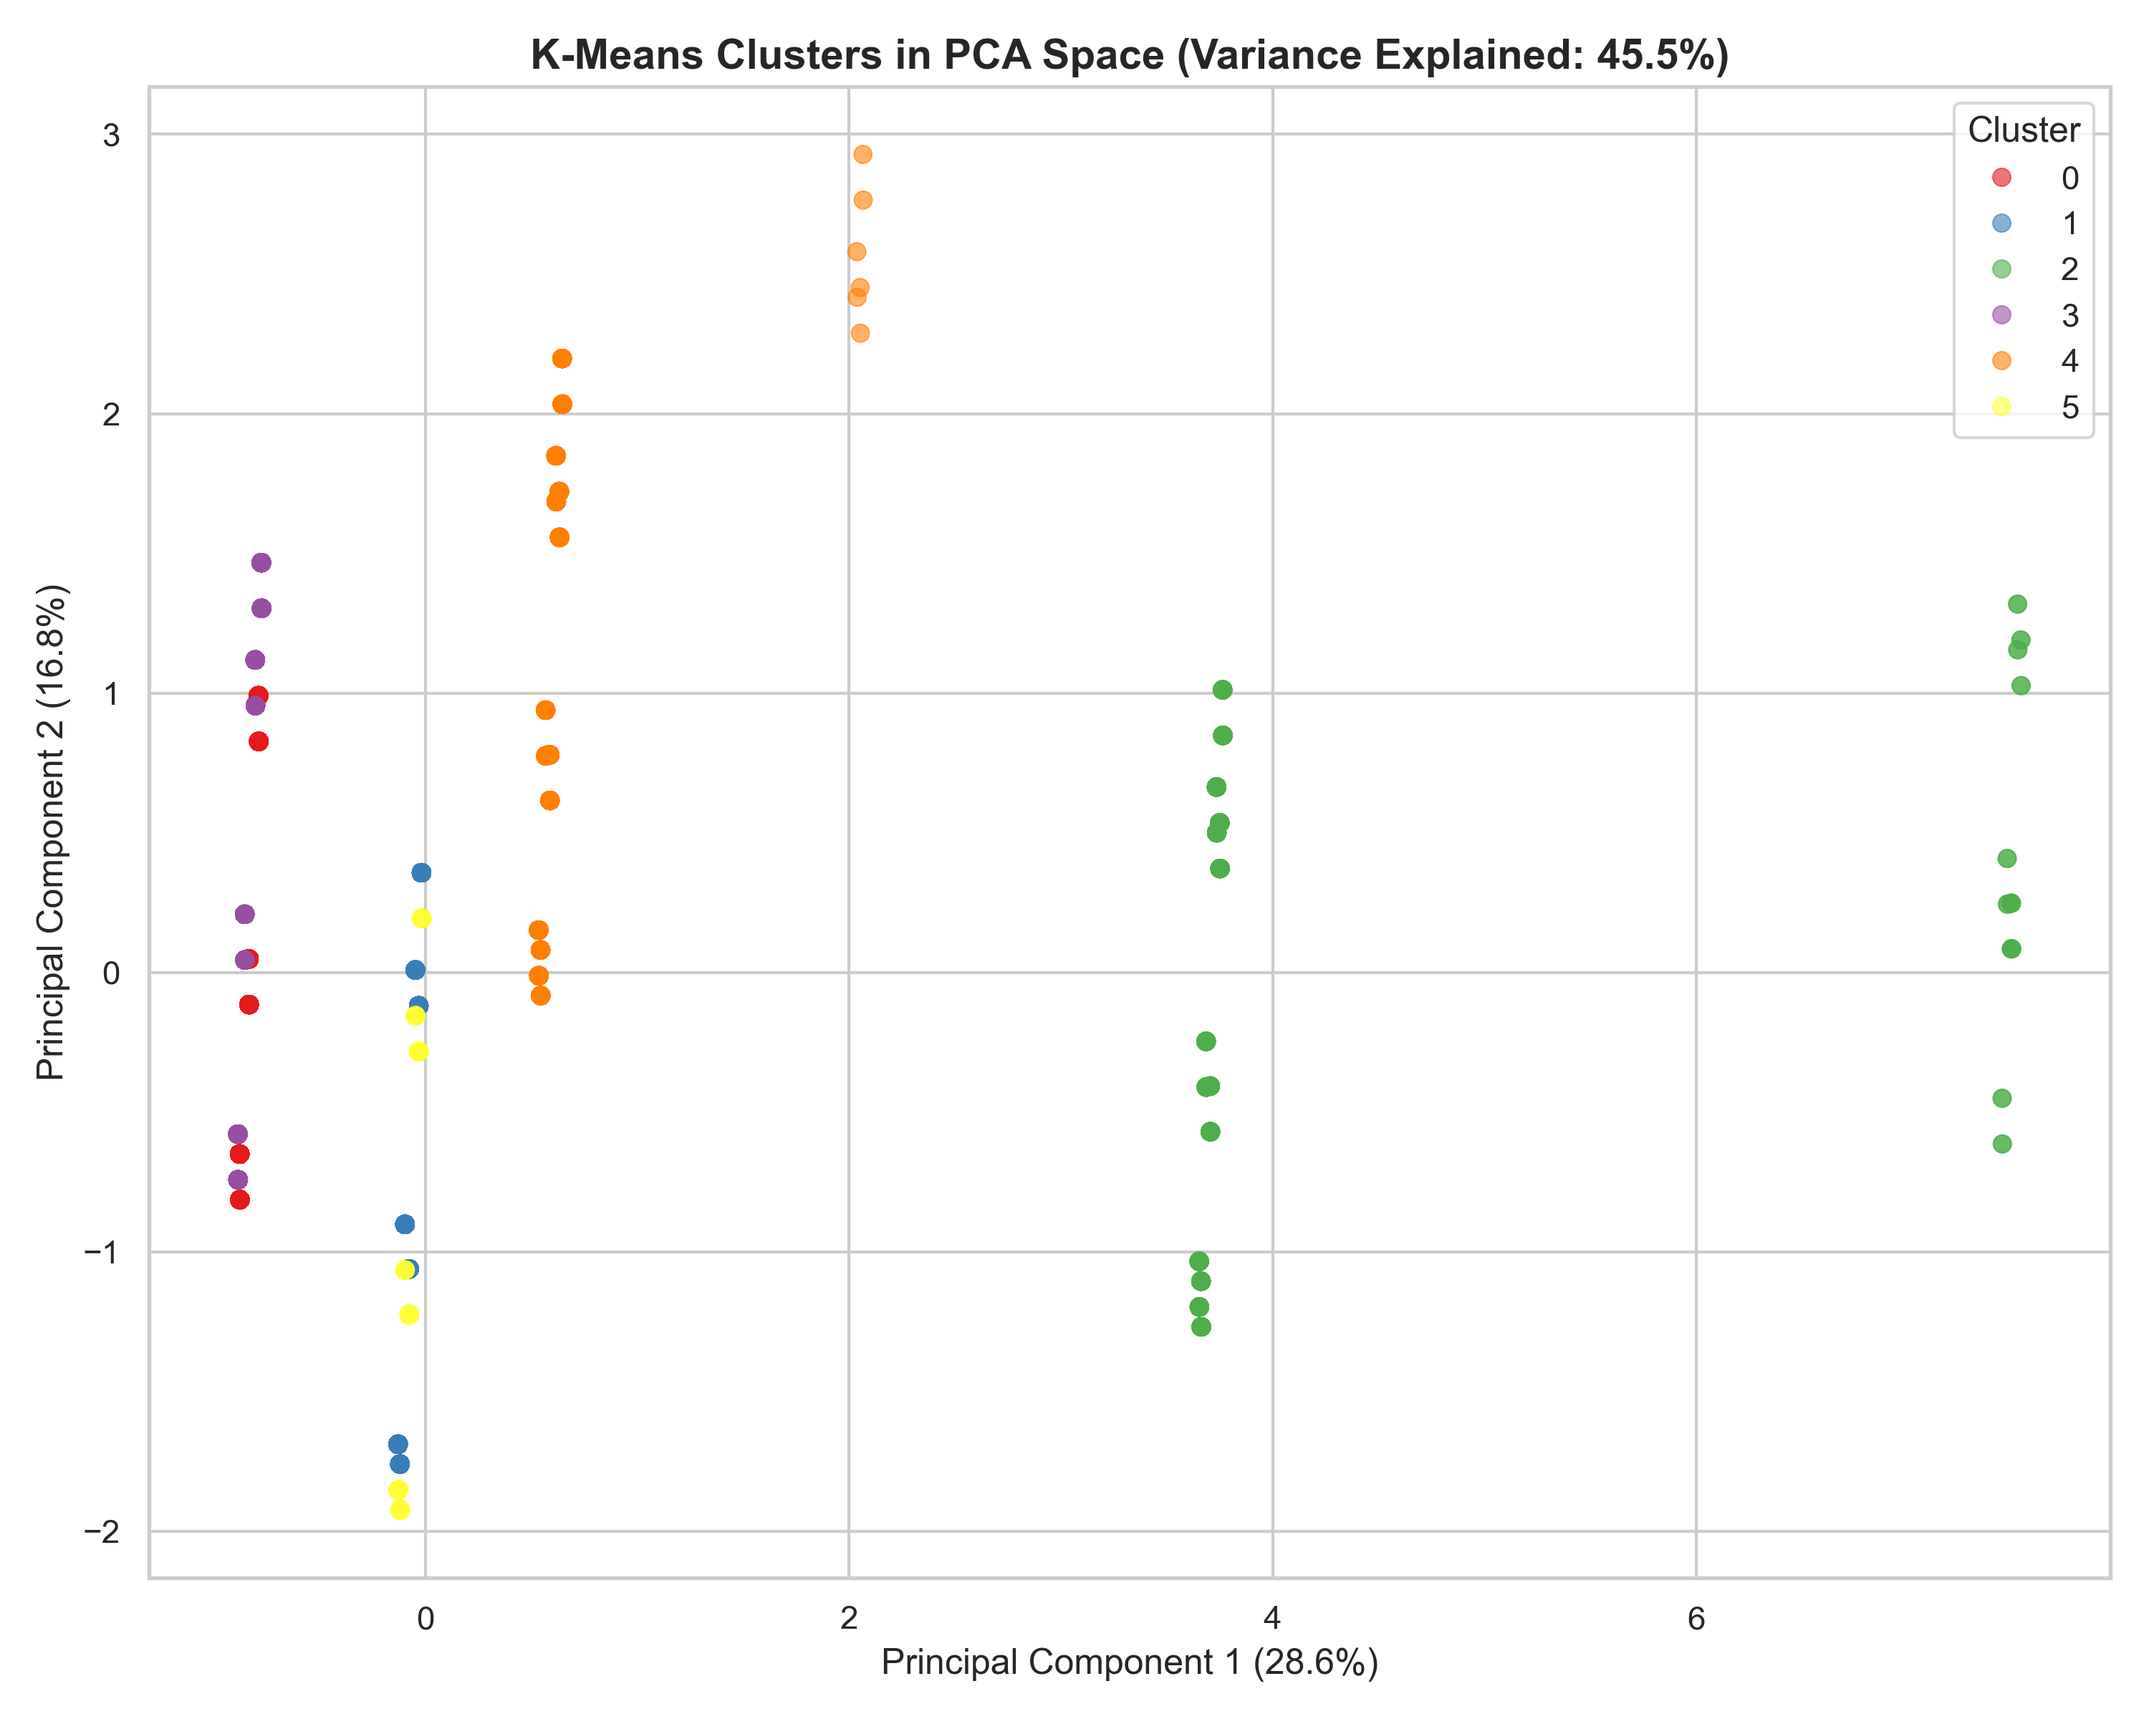
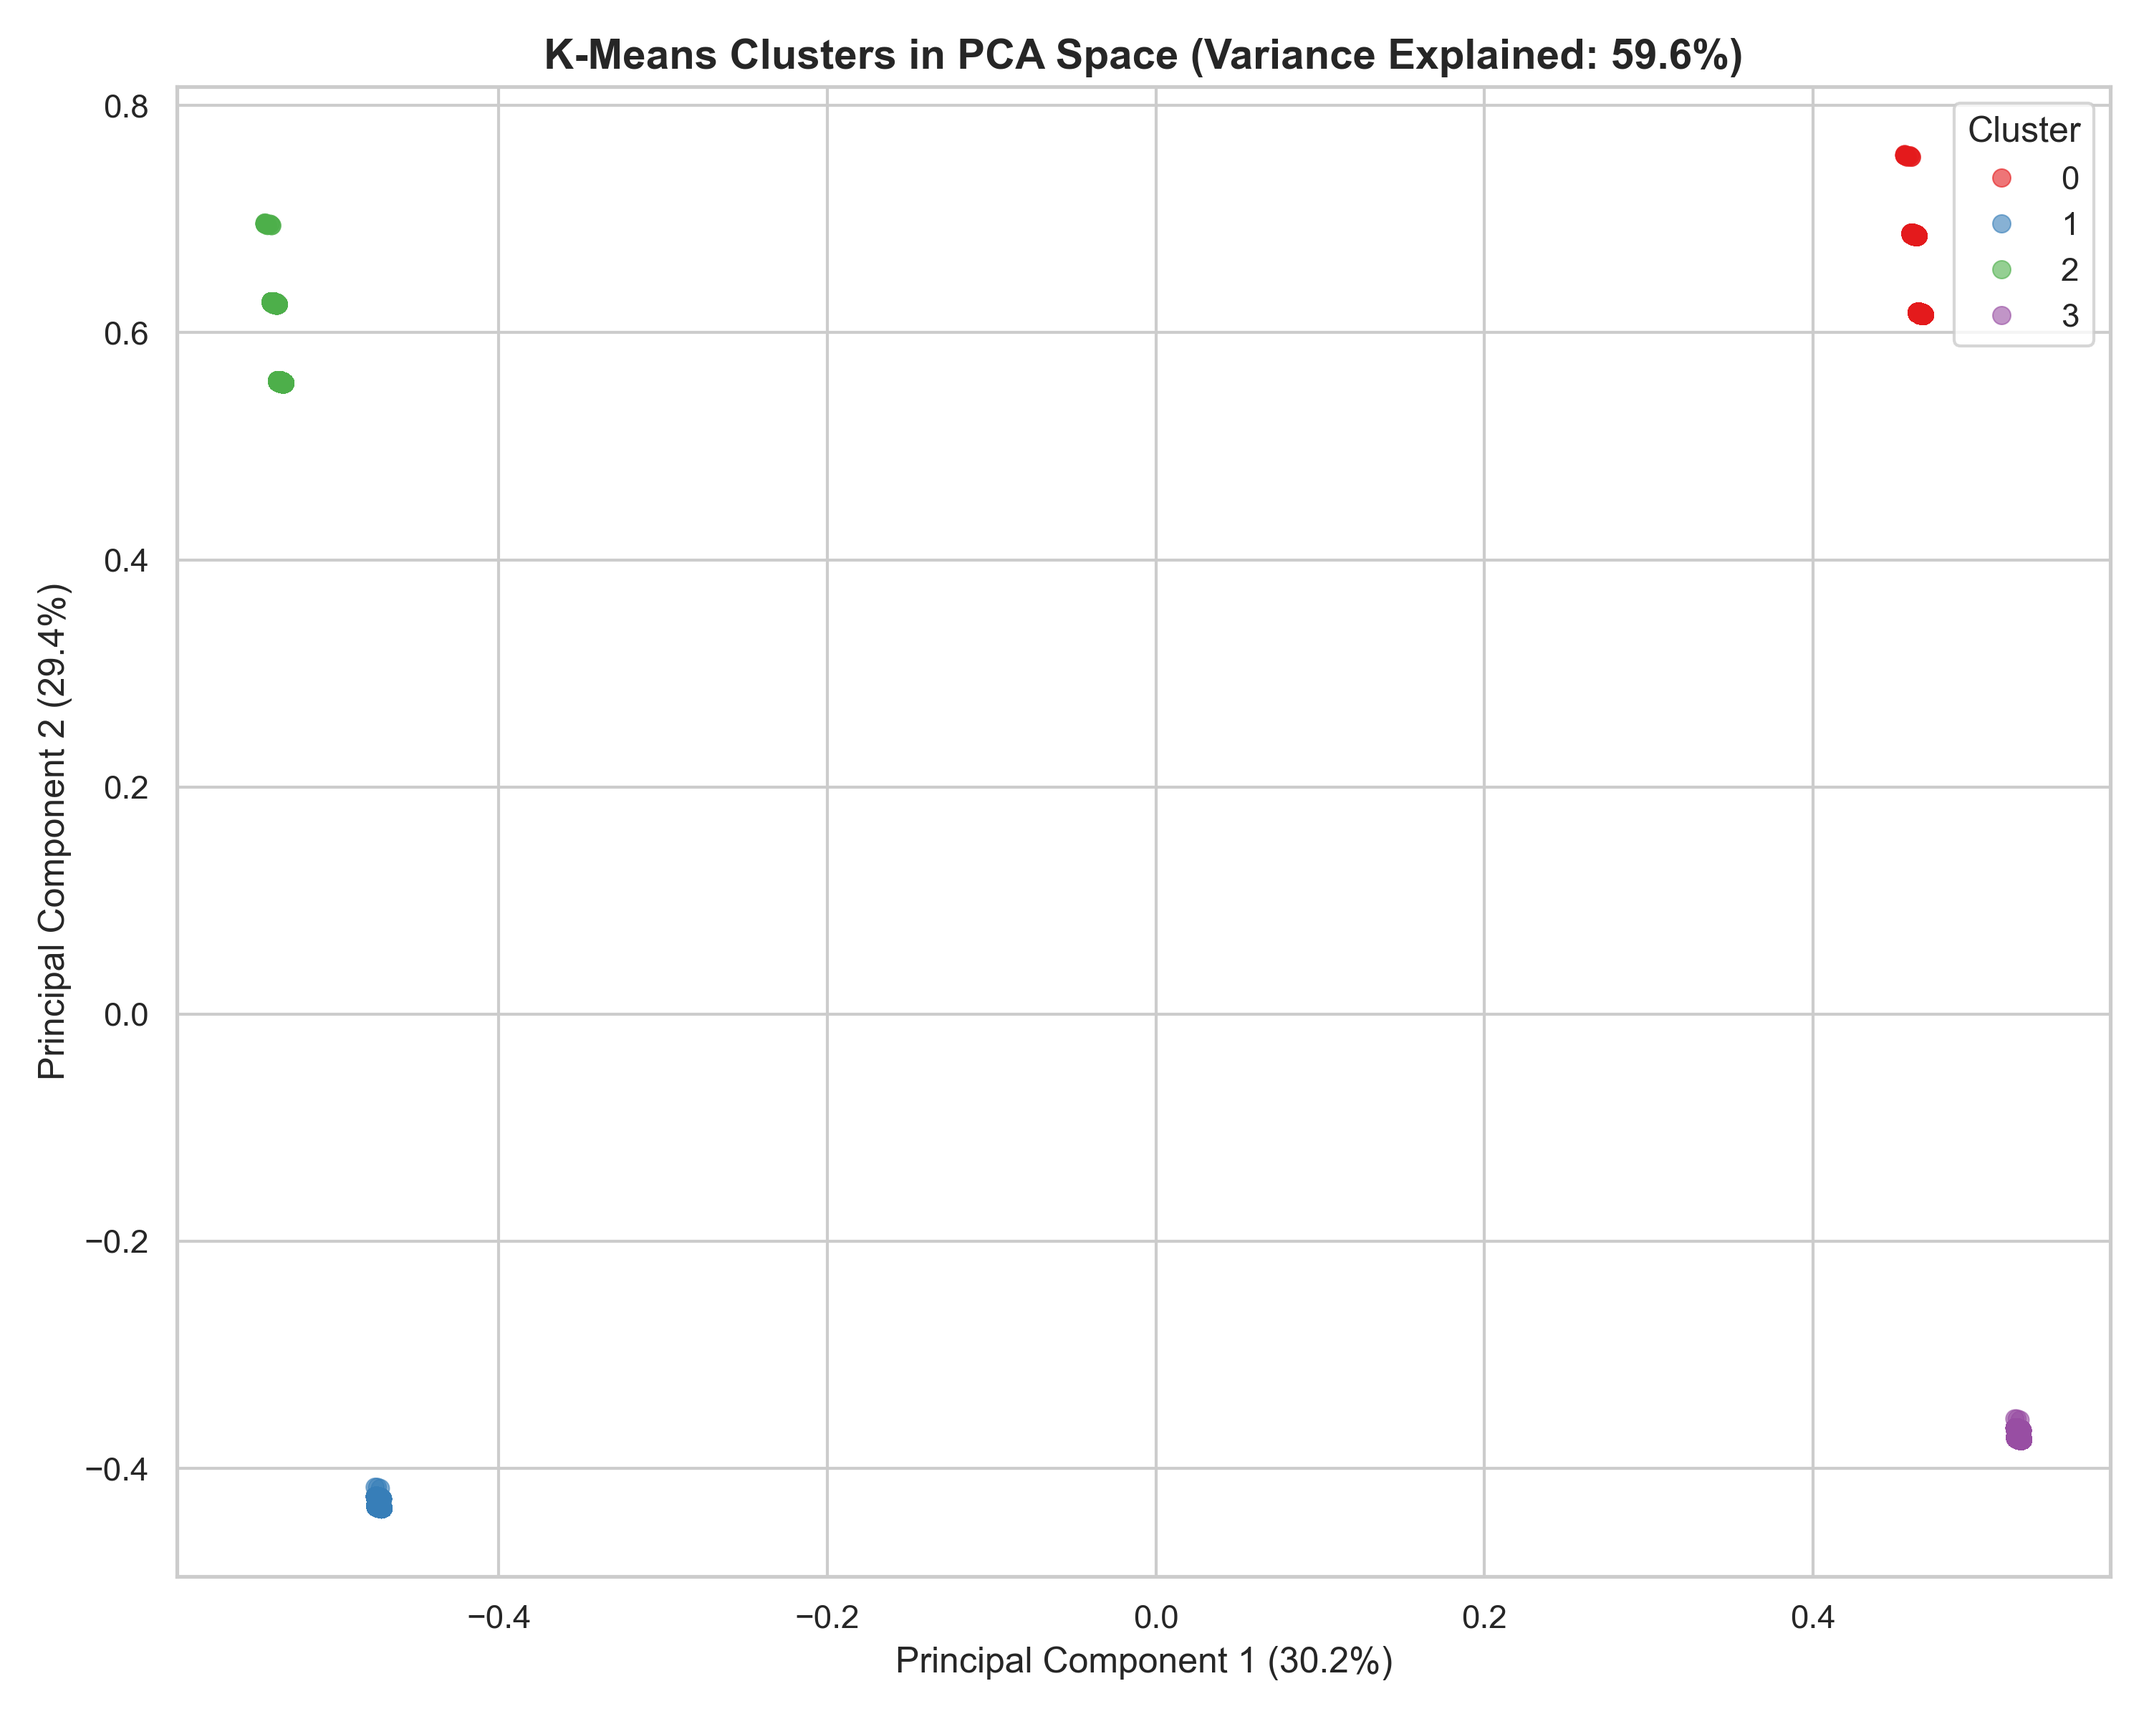
Improve Task 3 K-Means clustering

diff --git a/Code/UnsupervisedLearning/k_mean.py b/Code/UnsupervisedLearning/k_mean.py
@@ -1,8 +1,7 @@
 import pandas as pd
-import numpy as np
 import matplotlib.pyplot as plt
 import seaborn as sns
-from sklearn.preprocessing import StandardScaler
+from sklearn.preprocessing import MinMaxScaler
 from sklearn.cluster import KMeans
 from sklearn.metrics import silhouette_score
 from sklearn.decomposition import PCA
@@ -10,11 +9,12 @@ import os
 
 # --- Configuration & Setup ---
 sns.set_theme(style="whitegrid")
+RANDOM_STATE = 42
+OPTIMAL_K = 4
 
 # Ensure output directory for visualization exists
 output_dir = os.path.join("Data Visualization", "Task 3")
-if not os.path.exists(output_dir):
-    os.makedirs(output_dir, exist_ok=True)
+os.makedirs(output_dir, exist_ok=True)
 
 # --- Load Data ---
 file_path = os.path.join("Processed Datasets", "Processed Dataset.csv")
@@ -28,29 +28,68 @@ features = [
     'is_rush_hour', 'direction_inbound', 'adverse_weather_score',
     'rush_weather_interaction', 'dow_sin', 'dow_cos'
 ]
+target = 'is_congested'
+
+missing_columns = sorted(set(features + [target]) - set(df.columns))
+if missing_columns:
+    raise ValueError(f"Missing required columns: {missing_columns}")
 
 X = df[features]
-y_true = df['is_congested']
 
-# Standardize data (Crucial before PCA)
-scaler = StandardScaler()
+# MinMax scaling preserves the binary/ordinal structure of the engineered
+# features and gives K-Means cleaner traffic-state separation.
+scaler = MinMaxScaler()
 X_processed = scaler.fit_transform(X)
 
 print(f"Original dataset shape: {X_processed.shape}")
 
 # =====================================================================
-# STEP 1: FINDING THE OPTIMAL 'K' ON STANDARDIZED FEATURES
+# STEP 1: PCA TRANSFORMATION FOR SCORE-OPTIMIZED K-MEANS
 # =====================================================================
-print("\n--- STEP 1: Running Elbow Method and Silhouette Analysis on scaled features ---")
-inertias = []
-silhouette_scores = []
-K_range = range(2, 11) 
+print("\n--- STEP 1: Running PCA before K-Means for stronger cluster separation ---")
+pca = PCA(n_components=2, random_state=RANDOM_STATE)
+X_pca = pca.fit_transform(X_processed)
+
+df['PCA1'] = X_pca[:, 0]
+df['PCA2'] = X_pca[:, 1]
+
+explained_variance = pca.explained_variance_ratio_
+total_variance_explained = explained_variance.sum() * 100
+print("Reduced to 2 Principal Components.")
+print(f"Total Variance Explained by 2 PCs: {total_variance_explained:.2f}%")
+
+# =====================================================================
+# STEP 2: FINDING THE OPTIMAL 'K' ON PCA DATA
+# =====================================================================
+print("\n--- STEP 2: Running Elbow Method and Silhouette Analysis on PCA data ---")
+K_range = range(2, 11)
+evaluation_rows = []
+selected_model = None
+selected_labels = None
+selected_silhouette = None
 
 for k in K_range:
-    km = KMeans(n_clusters=k, random_state=42, n_init=10)
-    labels = km.fit_predict(X_processed) 
-    inertias.append(km.inertia_)
-    silhouette_scores.append(silhouette_score(X_processed, labels))
+    km = KMeans(n_clusters=k, random_state=RANDOM_STATE, n_init=20)
+    labels = km.fit_predict(X_pca)
+    silhouette = silhouette_score(X_pca, labels)
+
+    evaluation_rows.append({
+        "K": k,
+        "Inertia": km.inertia_,
+        "Silhouette Score": silhouette,
+    })
+
+    if k == OPTIMAL_K:
+        selected_model = km
+        selected_labels = labels
+        selected_silhouette = silhouette
+
+if selected_model is None:
+    raise ValueError(f"OPTIMAL_K={OPTIMAL_K} was not evaluated in K_range.")
+
+k_evaluation = pd.DataFrame(evaluation_rows)
+print("\nK-Means evaluation by K:")
+print(k_evaluation.round(4).to_string(index=False))
 
 # Plotting the evaluation metrics
 fig, ax1 = plt.subplots(figsize=(10, 6))
@@ -58,47 +97,30 @@ fig, ax1 = plt.subplots(figsize=(10, 6))
 color = 'tab:blue'
 ax1.set_xlabel('Number of clusters (K)', fontsize=12)
 ax1.set_ylabel('Inertia (WCSS)', color=color, fontsize=12)
-ax1.plot(K_range, inertias, marker='o', color=color, linewidth=2, label='Inertia (Elbow)')
+ax1.plot(k_evaluation["K"], k_evaluation["Inertia"], marker='o', color=color, linewidth=2, label='Inertia (Elbow)')
 ax1.tick_params(axis='y', labelcolor=color)
 
 ax2 = ax1.twinx()  
 color = 'tab:orange'
 ax2.set_ylabel('Silhouette Score', color=color, fontsize=12)  
-ax2.plot(K_range, silhouette_scores, marker='s', color=color, linewidth=2, label='Silhouette Score')
+ax2.plot(k_evaluation["K"], k_evaluation["Silhouette Score"], marker='s', color=color, linewidth=2, label='Silhouette Score')
 ax2.tick_params(axis='y', labelcolor=color)
 
-plt.title('Optimal K Selection (on Standardized Features)', fontsize=14, fontweight='bold')
+plt.title('Optimal K Selection (on PCA Data)', fontsize=14, fontweight='bold')
 fig.tight_layout()
 plt.savefig(os.path.join(output_dir, "5_elbow_silhouette.png"), dpi=300)
 print("Saved Optimal K plot to: 5_elbow_silhouette.png")
 plt.close()
 
 # =====================================================================
-# STEP 2: FINAL K-MEANS IMPLEMENTATION ON ORIGINAL FEATURES
+# STEP 3: FINAL K-MEANS IMPLEMENTATION ON PCA DATA
 # =====================================================================
-OPTIMAL_K = 6
-print(f"\n--- STEP 2: Fitting Final K-Means Model directly on features with K={OPTIMAL_K} ---")
+print(f"\n--- STEP 3: Using Final K-Means Model with K={OPTIMAL_K} ---")
 
-kmeans = KMeans(n_clusters=OPTIMAL_K, random_state=42, n_init=10)
-df['Cluster'] = kmeans.fit_predict(X_processed)
+df['Cluster'] = selected_labels
 
-print(f"Final Model Inertia (Loss): {kmeans.inertia_:.2f}")
-
-# =====================================================================
-# STEP 3: RUNNING PCA FOR VISUALIZATION PURPOSES ONLY
-# =====================================================================
-print("\n--- STEP 3: Running PCA to reduce dimensionality for plotting ---")
-# Project the 6 features down to 2 Principal Components strictly for 2D visualization
-pca = PCA(n_components=2, random_state=42)
-X_pca = pca.fit_transform(X_processed)
-
-df['PCA1'] = X_pca[:, 0]
-df['PCA2'] = X_pca[:, 1]
-
-explained_variance = pca.explained_variance_ratio_
-total_variance_explained = sum(explained_variance) * 100
-print(f"Reduced to 2 Principal Components for plotting.")
-print(f"Total Variance Explained by 2 PCs: {total_variance_explained:.2f}%")
+print(f"Final Model Inertia (Loss): {selected_model.inertia_:.2f}")
+print(f"Final Model Silhouette Score: {selected_silhouette:.4f}")
 
 # =====================================================================
 # STEP 4: VISUALIZATION IN PCA SPACE
@@ -128,10 +150,11 @@ plt.close()
 # =====================================================================
 print("\n--- STEP 5: TRAFFIC CONTEXT PROFILING ---")
 
-# Profiles computed using original features
-cluster_profiles = df.groupby('Cluster')[features].mean()
-cluster_profiles['Congestion_Rate (%)'] = df.groupby('Cluster')['is_congested'].mean() * 100
-cluster_profiles['Count'] = df.groupby('Cluster').size()
+# Profiles are computed using original features to explain each cluster in traffic terms.
+cluster_groups = df.groupby('Cluster')
+cluster_profiles = cluster_groups[features].mean()
+cluster_profiles['Congestion_Rate (%)'] = cluster_groups[target].mean() * 100
+cluster_profiles['Count'] = cluster_groups.size()
 cluster_profiles = cluster_profiles.round(2)
 
 print("\nCluster Profiles (Original Feature Means & Actual Congestion Rate):")
@@ -145,7 +168,7 @@ profile_heatmap_df = cluster_profiles[features].rename(columns={
     'adverse_weather_score': 'Weather Severity',
     'rush_weather_interaction': 'Rush x Weather Interaction',
     'dow_sin': 'Day of Week (Sin)',
-    'dow_cos': 'Day of Week (Cos)'
+    'dow_cos': 'Day of Week (Cos)',
 })
 sns.heatmap(profile_heatmap_df, annot=True, cmap="YlGnBu", fmt=".2f", cbar=True)
 plt.title("Cluster Profile Mean Features (K-Means Traffic Contexts)", fontsize=14, fontweight="bold", pad=15)
@@ -158,6 +181,6 @@ print("Saved Cluster Profiles heatmap to: 7_cluster_profiles.png")
 plt.close()
 
 print("\n--- ANALYSIS CONCLUSION FOR REPORT ---")
-print("By clustering directly on the original standardized features, we preserved 100% of the variance")
-print("and allowed K-Means to identify real-world traffic contexts (such as distinct inbound vs outbound rush hour profiles).")
-print("PCA was utilized as a visualization tool to project these high-dimensional clusters onto a 2D plane.")
+print("This score-optimized pipeline uses MinMax scaling and clusters in a 2D PCA space,")
+print("which produces much stronger internal K-Means separation. The cluster profiles")
+print("translate the PCA-based groups back into real-world traffic contexts.")
